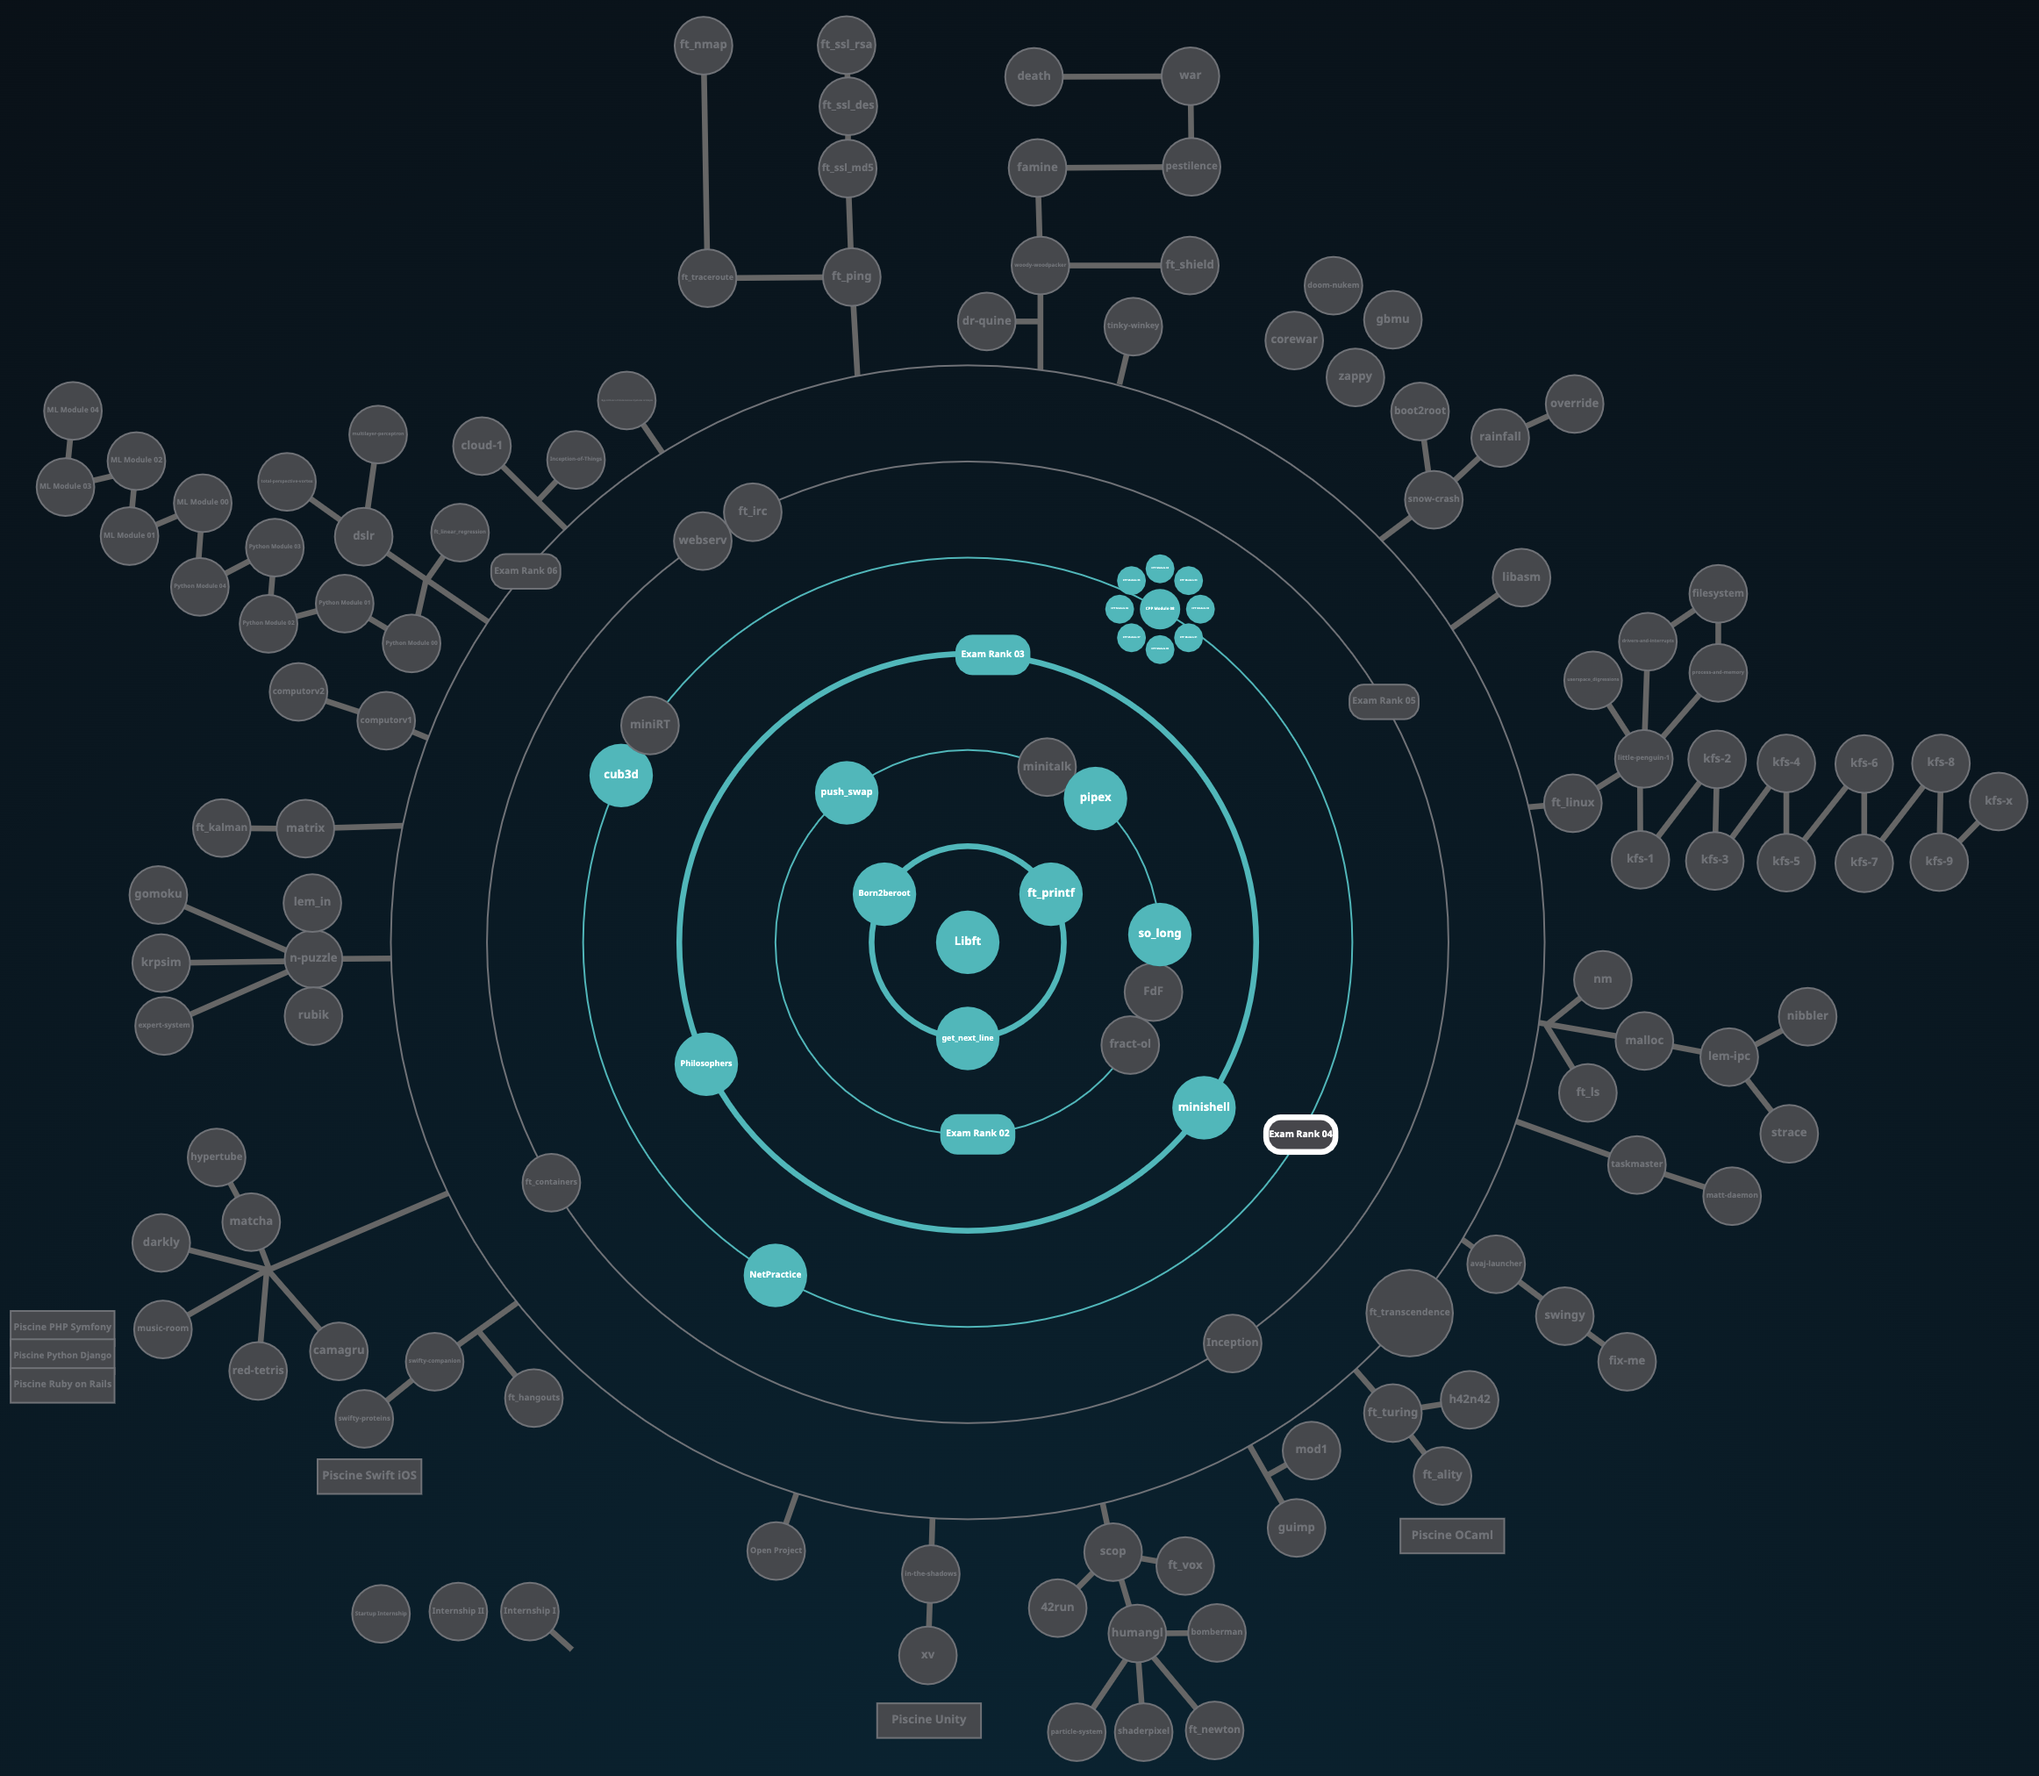
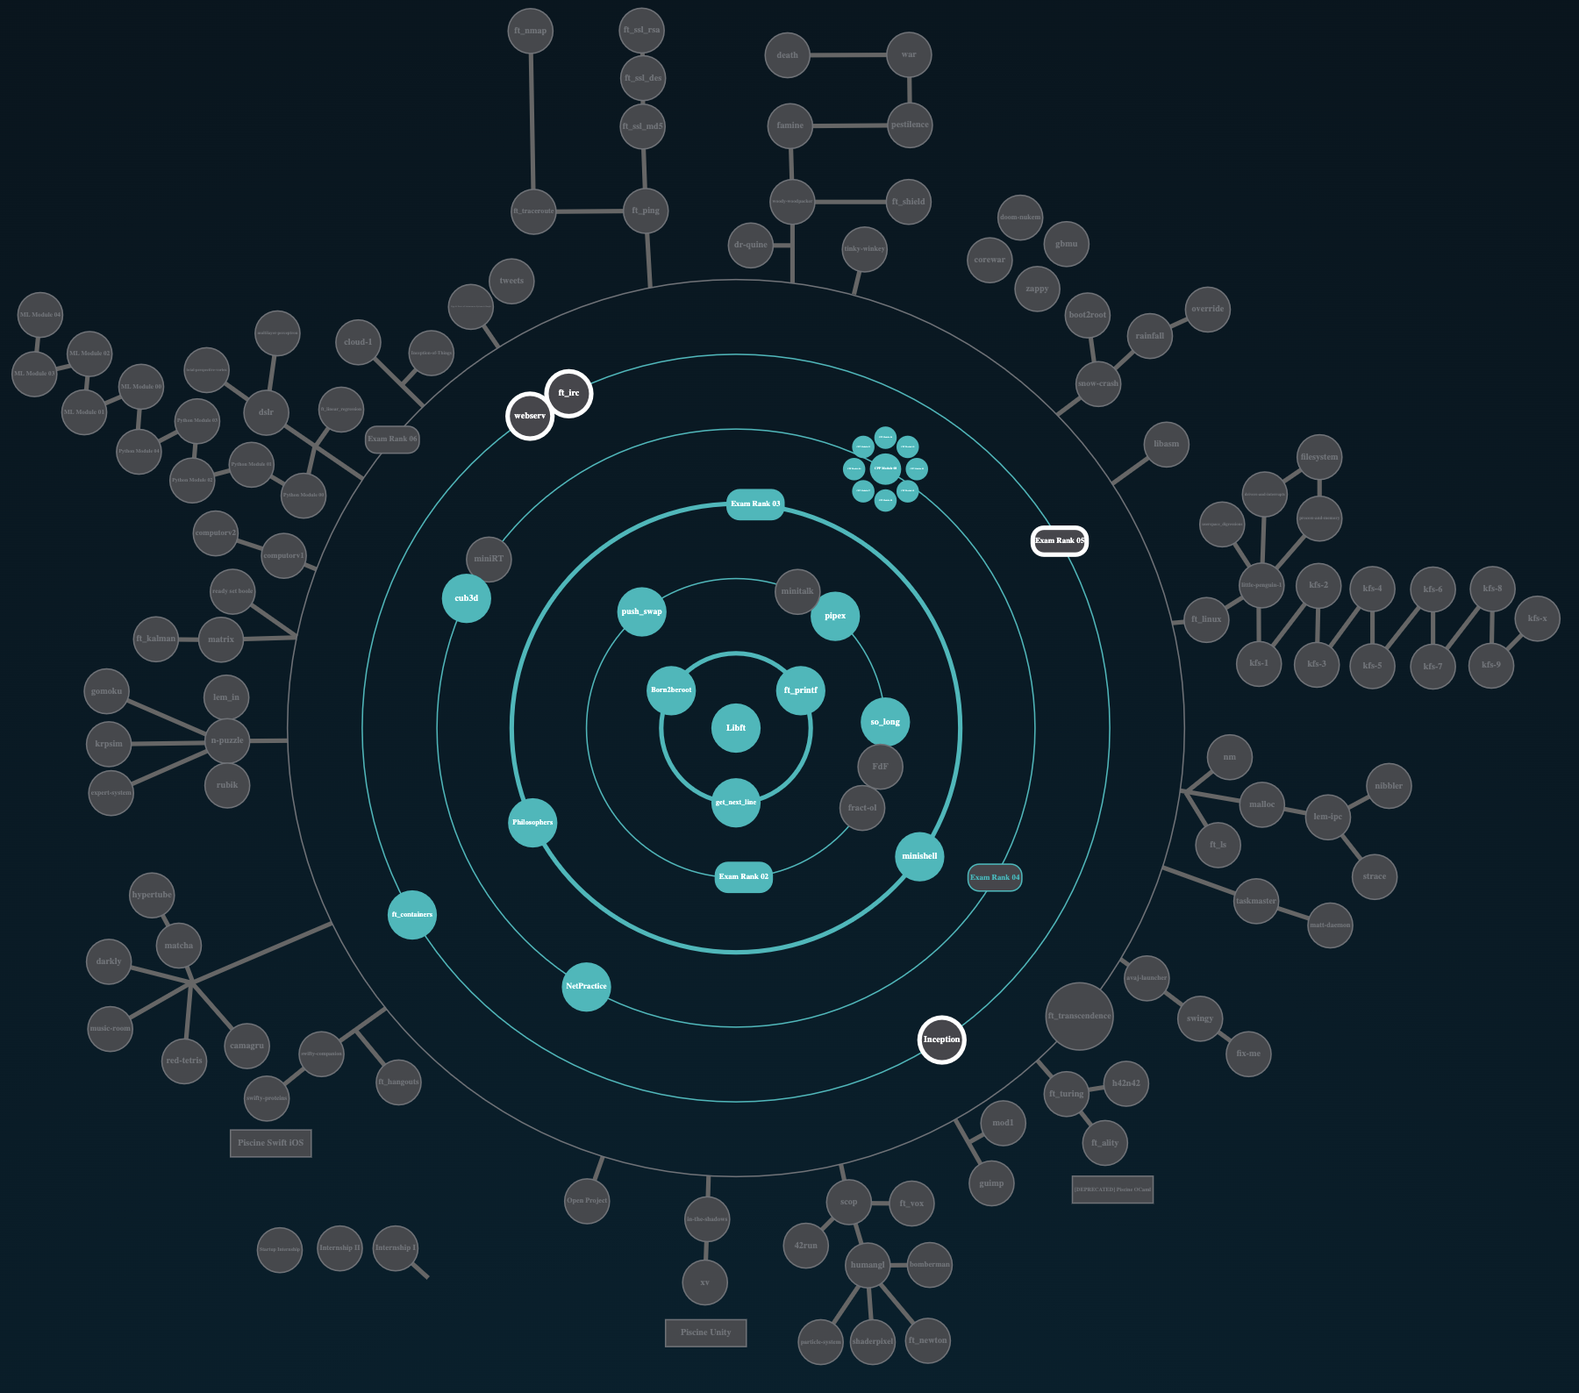
1337 cursus

diff --git a/README.md b/README.md
@@ -29,4 +29,5 @@
 | 4 | NetPractice | Networking | 50 hours | 3160 | ![momayaz's 42 NetPractice Score](https://badge42.vercel.app/api/v2/cl16atahm000609mbeff5wwta/project/2540809) | 4.48 |
 | 4 | [cub3D](./lvl_4/Cub3d) | C - mlx | 280 hours | 5775 | ![momayaz's 42 cub3D Score](https://badge42.vercel.app/api/v2/cl16atahm000609mbeff5wwta/project/2570287) | 4.91 |
 | 4 | [CPP Module 08](./lvl_4/cpp_pool) | C++ | (7 * 9) hours | 9660 | ![momayaz's 42 CPP Module 08 Score](https://badge42.vercel.app/api/v2/cl16atahm000609mbeff5wwta/project/2598808) | 5.50 |
+| 5 | [ft_containers](./lvl_5/ft_containers) | C++ | 140 hours | 10042 | ![momayaz's 42 ft_containers Score](https://badge42.vercel.app/api/v2/cl16atahm000609mbeff5wwta/project/2857335) | 6.23 |
 
